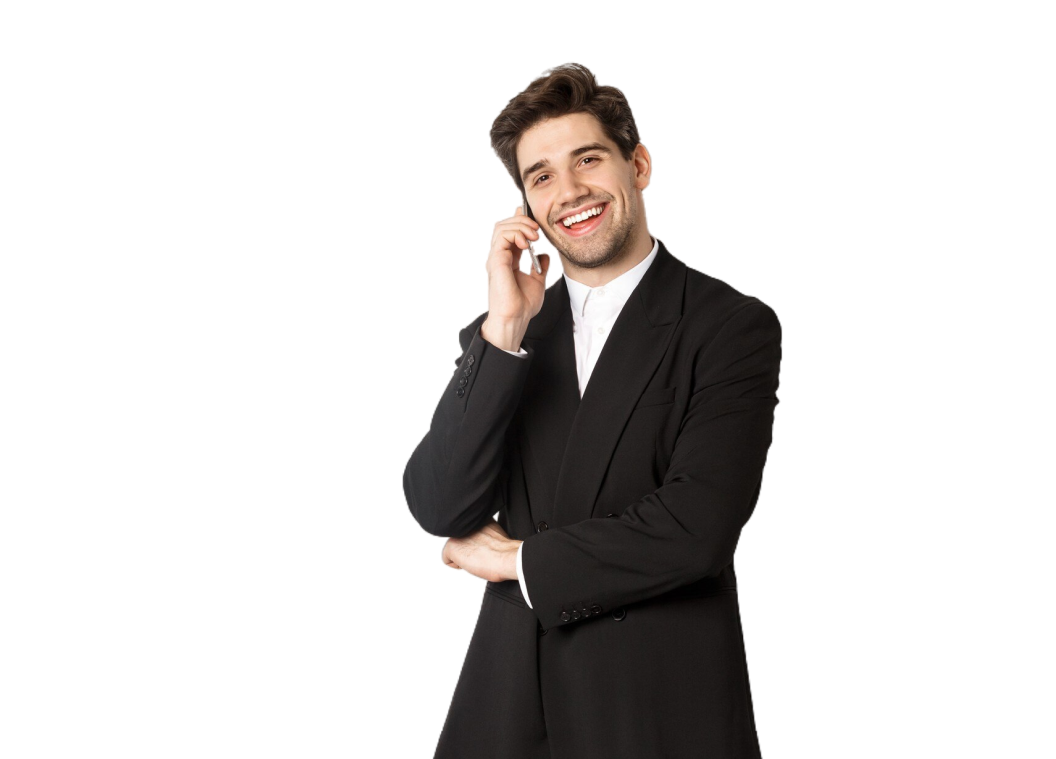
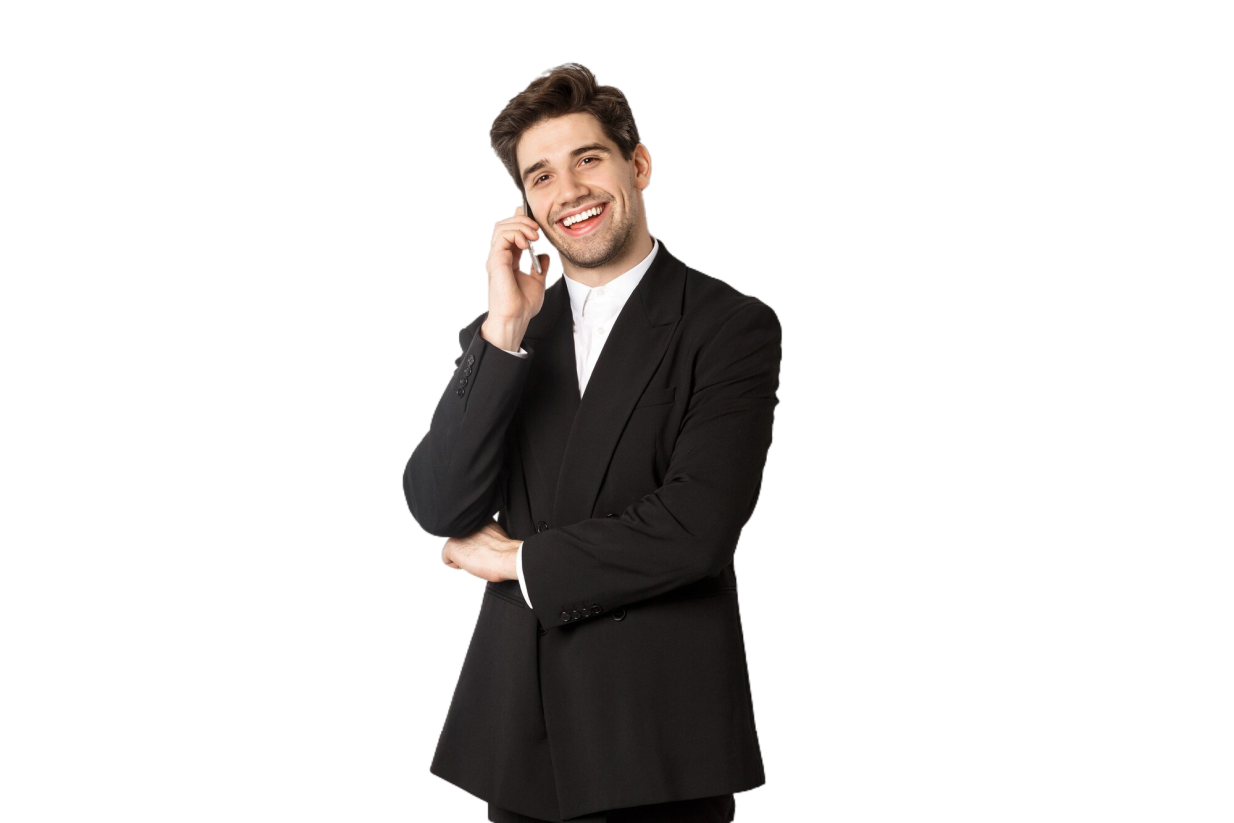
fix #78

Changed region(s): [[0.3125, 0.0606, 0.75, 1.0], [0.5, 0.8182, 0.5625, 0.8485], [0.5312, 0.5758, 0.5625, 0.6061]]

diff --git a/src/components/seo/seo.scss b/src/components/seo/seo.scss
@@ -3,8 +3,8 @@
 .seo {
     img {
         position: absolute;
+        top: 0;
         right: 0;
-        bottom: 0;
         height: 774px;
         object-fit: cover;
     }
